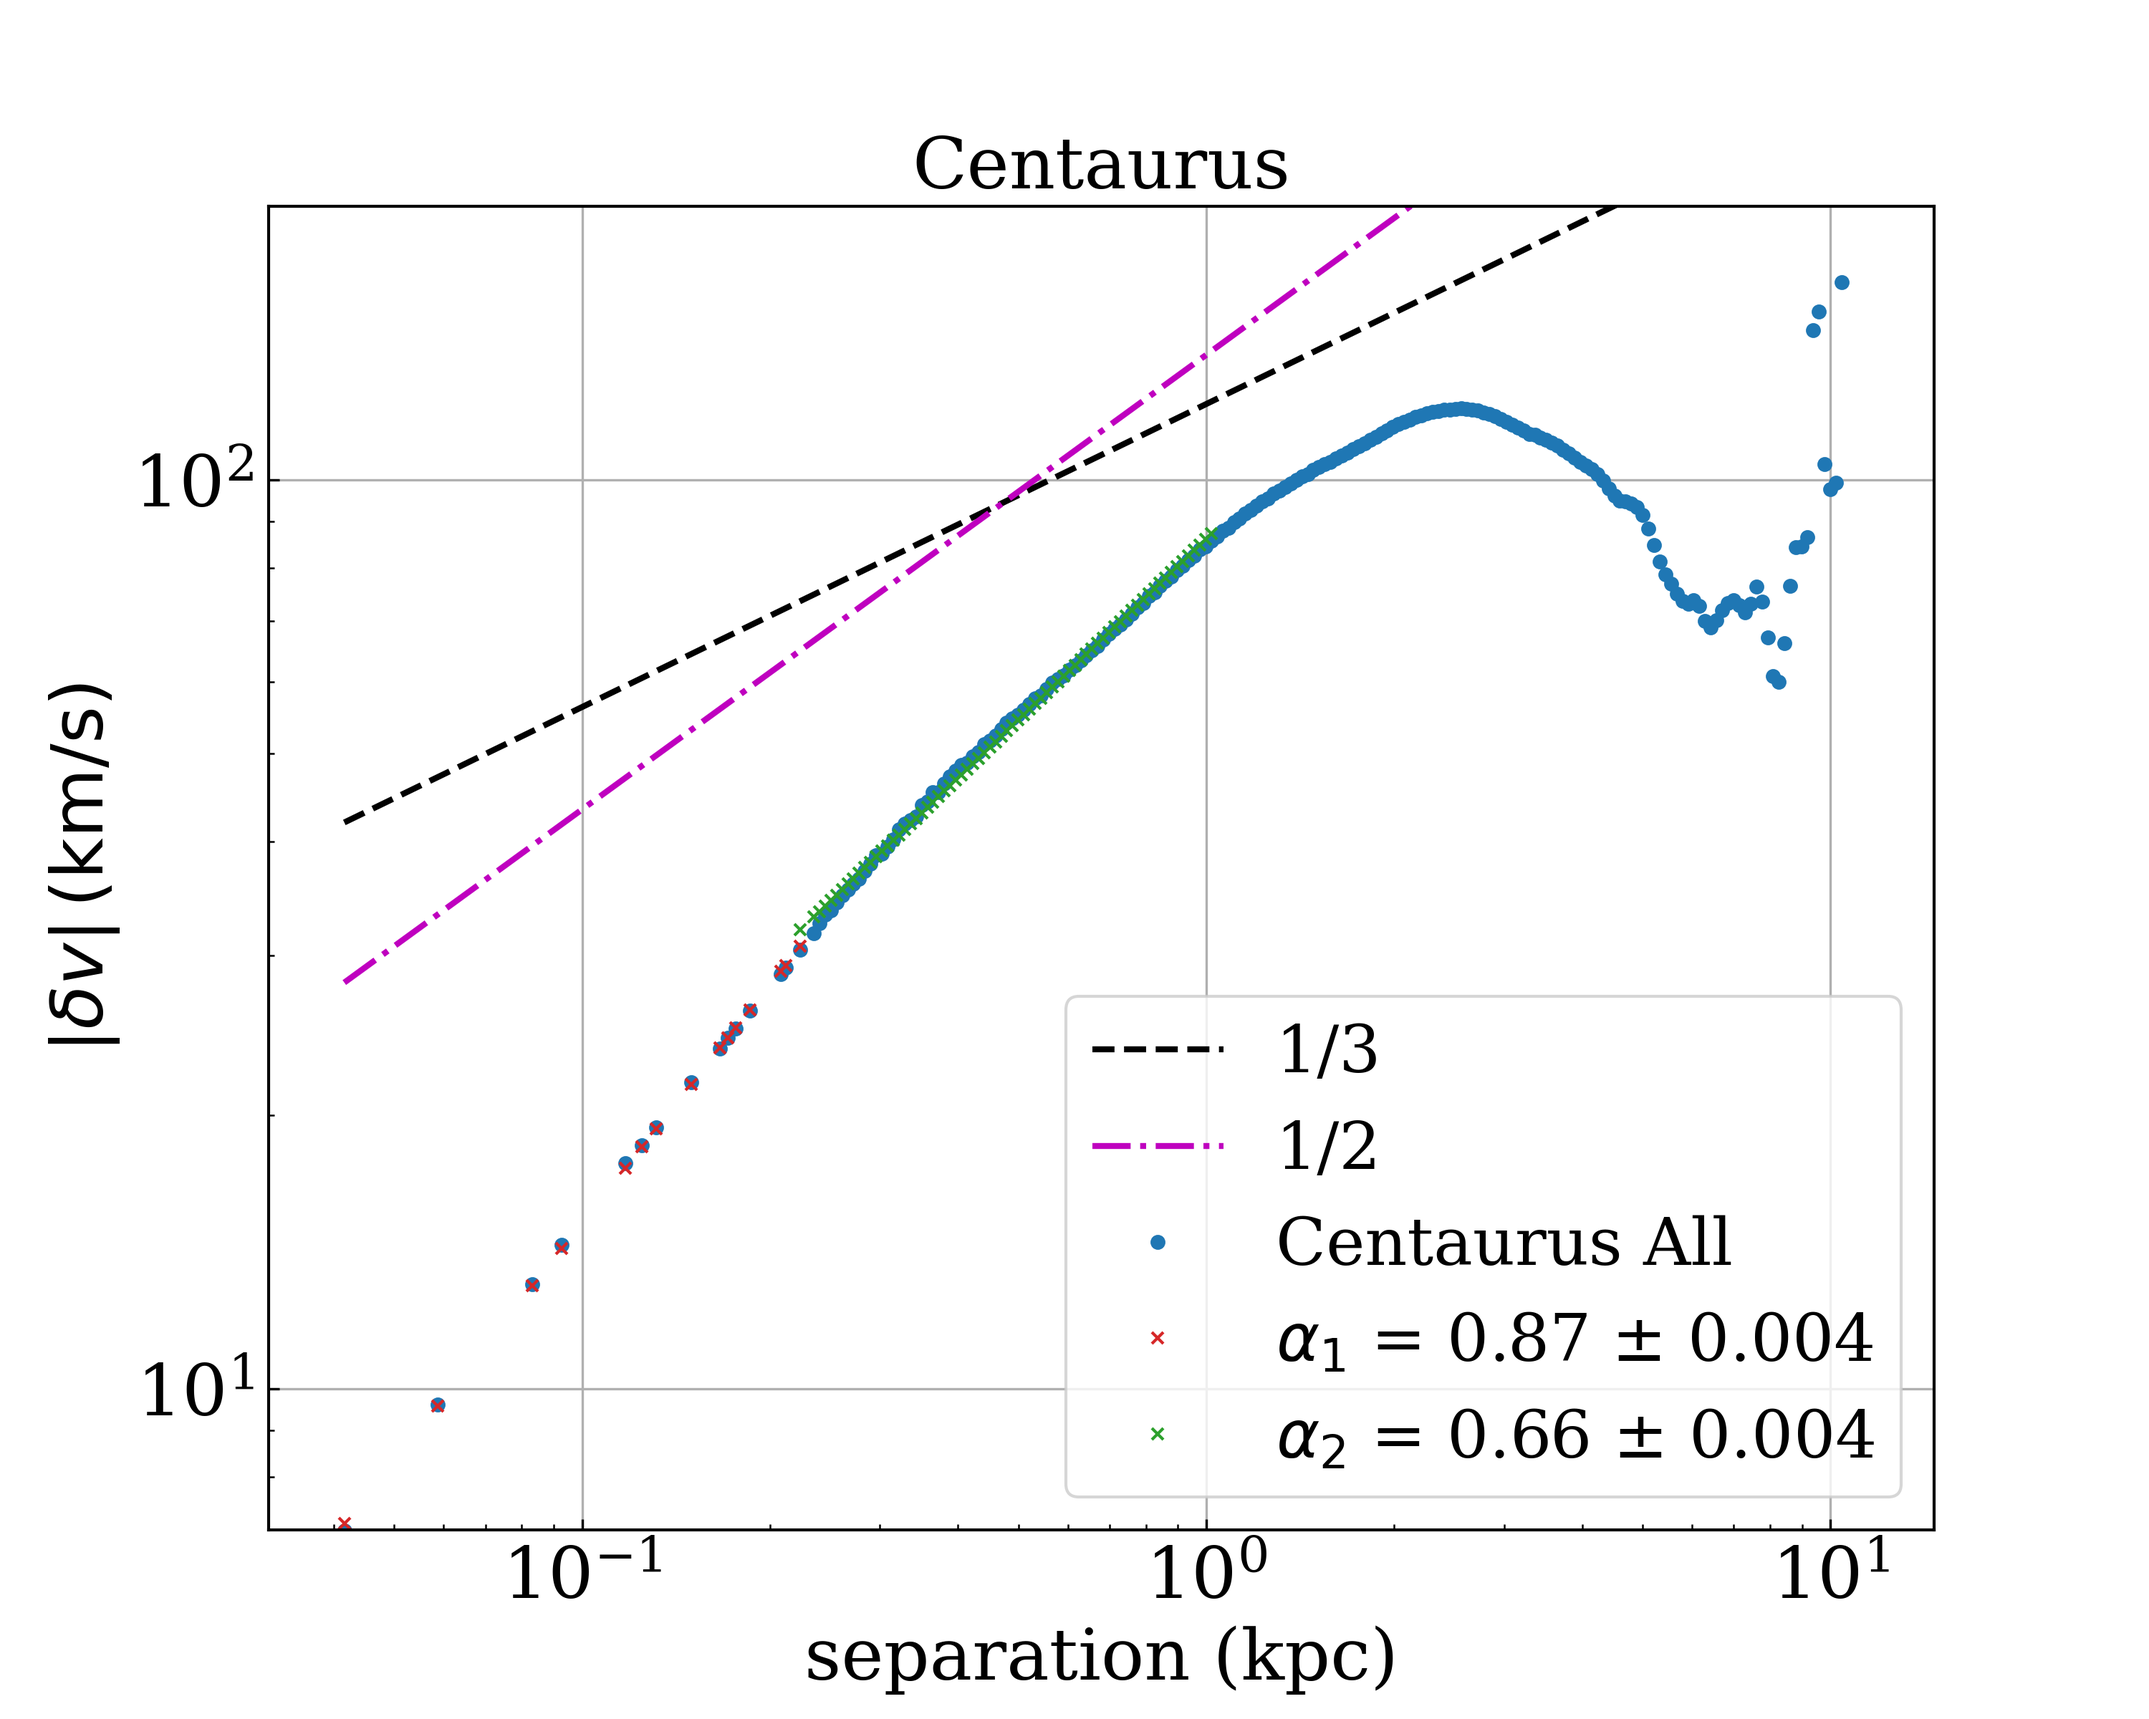
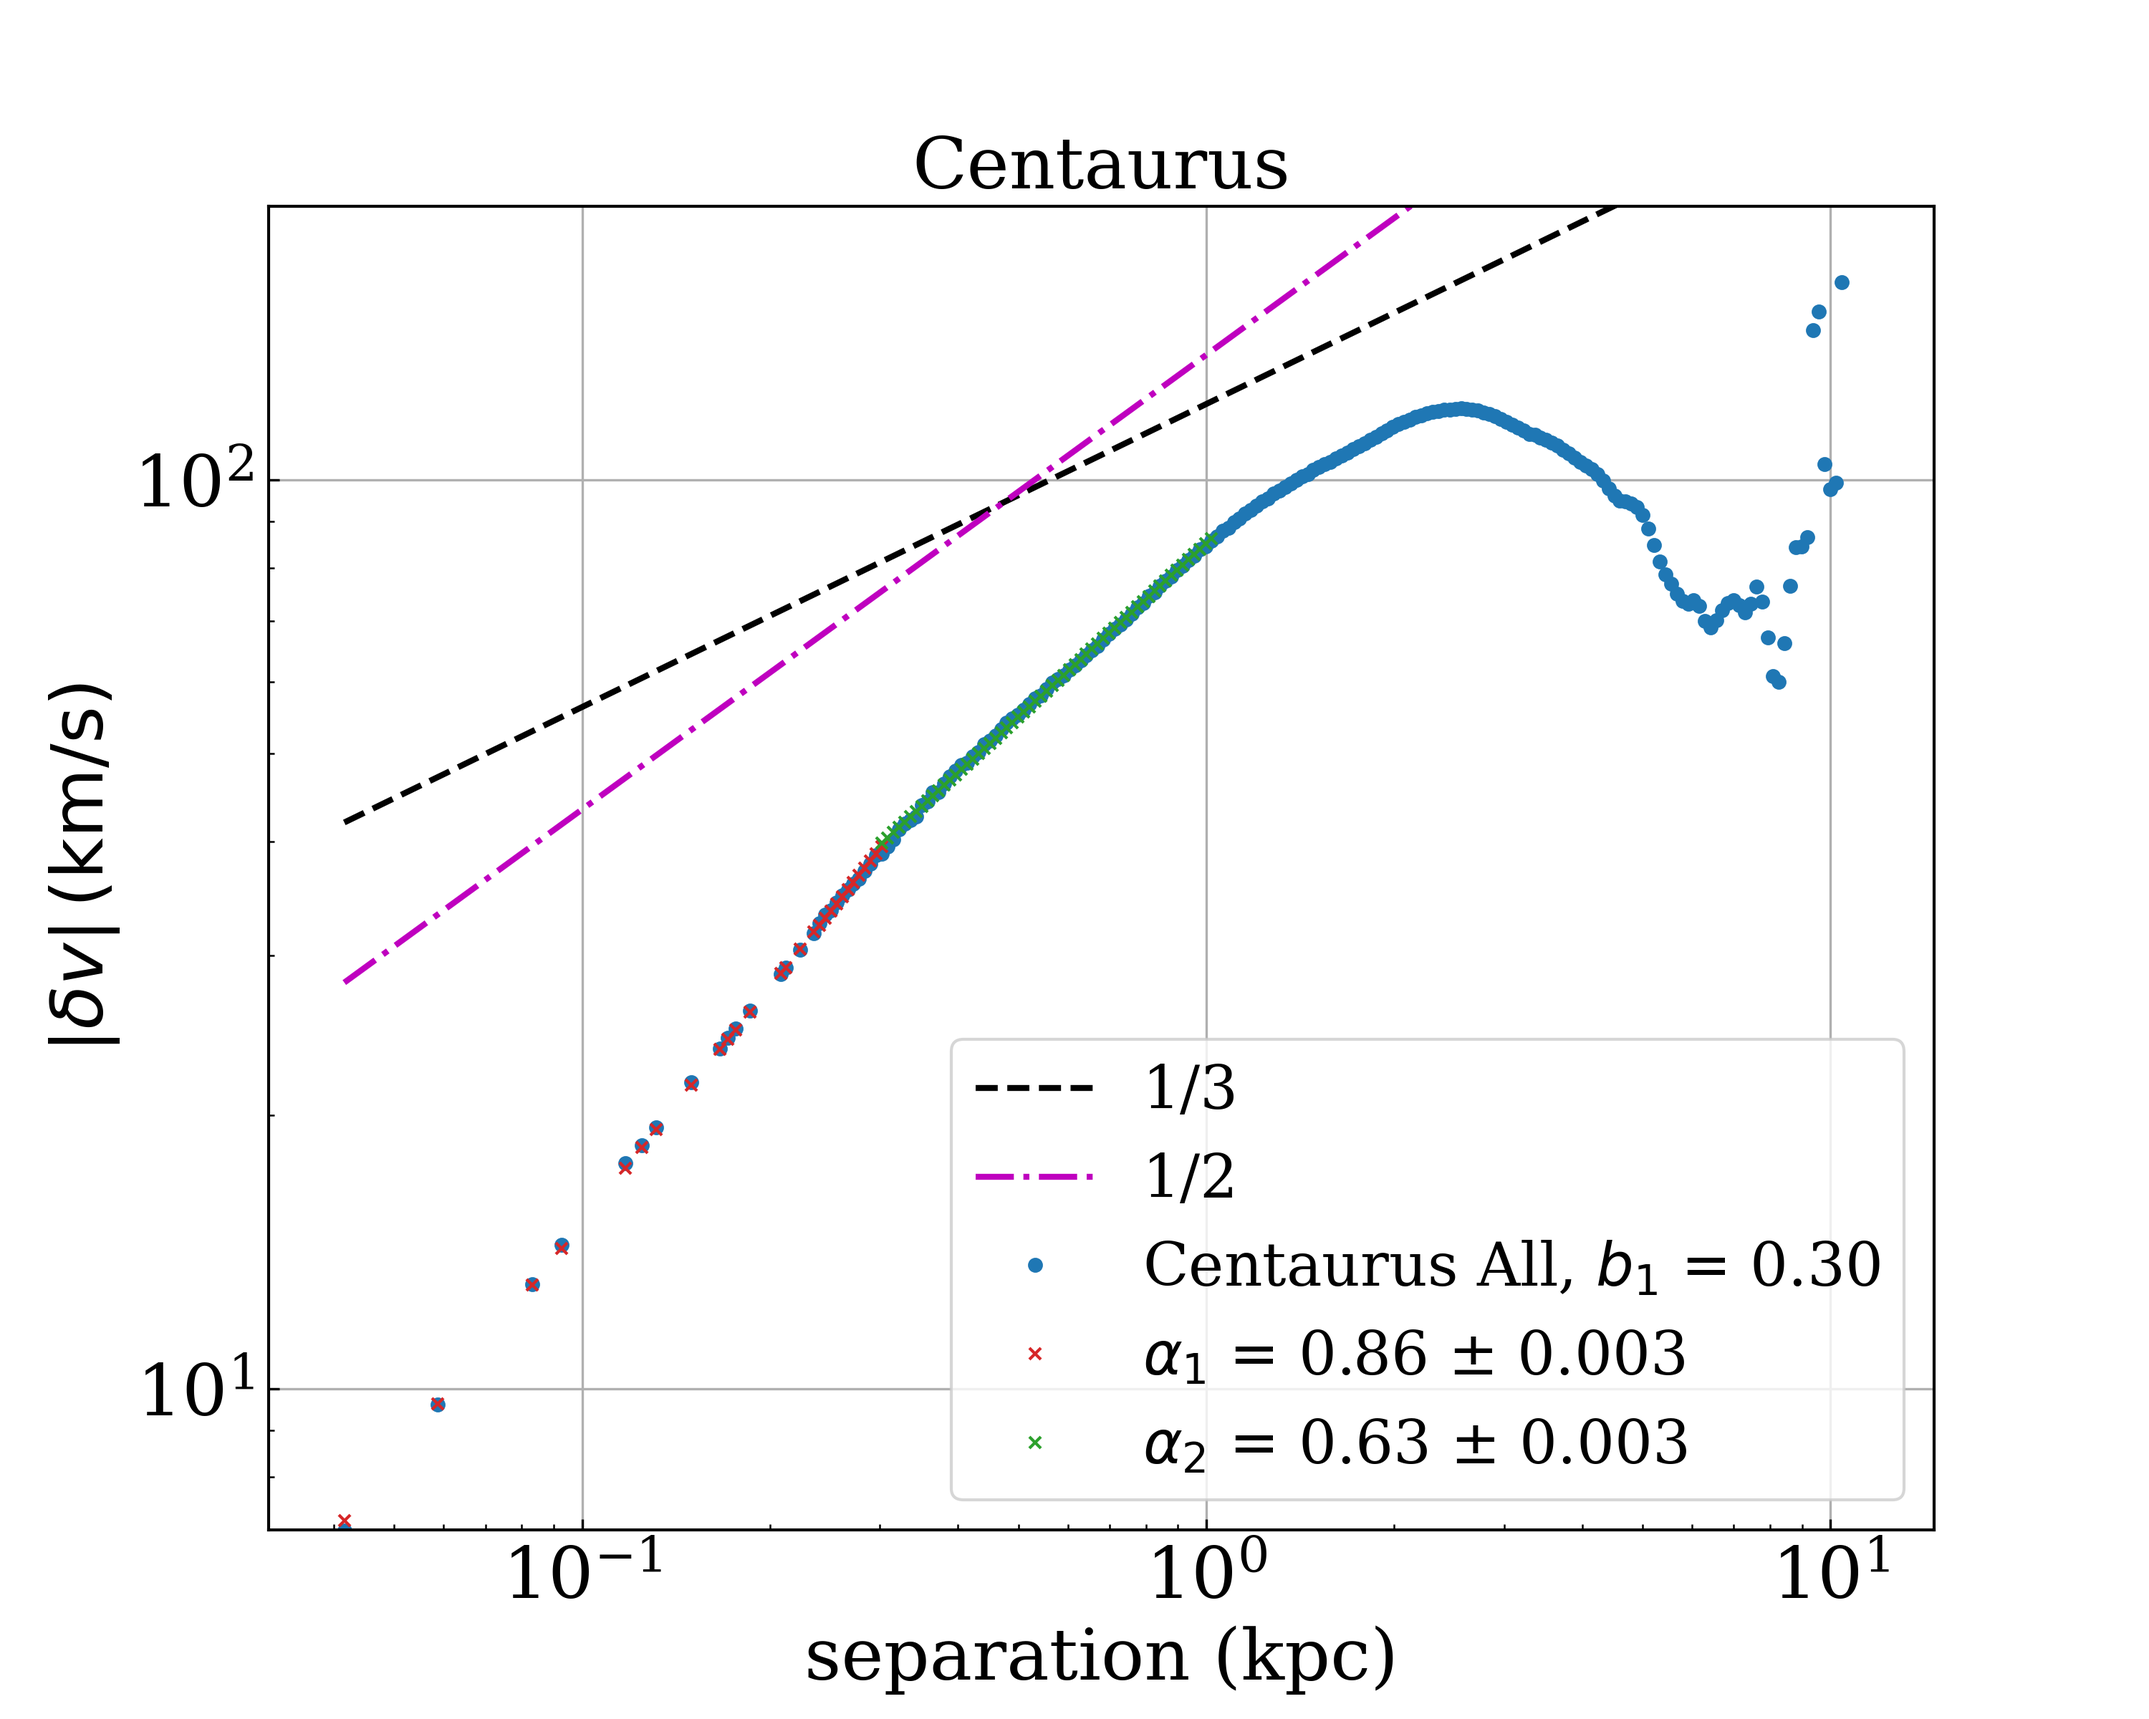
vsf fits improved

diff --git a/datamap_plotter.py b/datamap_plotter.py
@@ -196,7 +196,7 @@ def bplplotter(telescope,gname,vsfyl,vsfyu,one_third,half,pars1,stdevs1,pars2,st
     plt.figure(figsize=(10, 8))
     plt.loglog(dist_array_kpc, y_expect, "k--", label="1/3")
     plt.loglog(dist_array_kpc, y_expect2, "m-.", label="1/2")
-    plt.loglog(dist_array_kpc, v_diff_mean_smooth, marker="o",linestyle="None", markersize=4, color="C0",label=gname+' All')
+    plt.loglog(dist_array_kpc, v_diff_mean_smooth, marker="o",linestyle="None", markersize=4, color="C0",label=gname+r' All, $b_1$ = %.2f'%b1)
 
     for i in range(len(dist_array_kpc)):
         if dist_array_kpc[i]>b1:
@@ -211,7 +211,7 @@ def bplplotter(telescope,gname,vsfyl,vsfyu,one_third,half,pars1,stdevs1,pars2,st
         plt.loglog(distspec, 10**(pars2[0]+pars2[1]*np.log10(distspec)), 'x', color='C2',markersize=4, label=r'$\alpha_2$ = %.2f $\pm$ %.3f'%(pars2[1],stdevs2[1]))
     plt.xlabel("separation (kpc)")
     plt.ylabel(r"$|\delta v|\, \rm (km/s)$")
-    plt.legend(loc="lower right", prop={'size': 22})
+    plt.legend(loc="lower right", prop={'size': 20})
     plt.ylim(vsfyl, vsfyu)
     plt.grid()
     plt.tick_params(which='both',direction='in')

diff --git a/main.py b/main.py
@@ -91,7 +91,8 @@ if telescope=='MUSE':
         # alldata['vsfyl'], alldata['vsfyu'], alldata['vsfbin'] = vsfyl, vsfyu, vsfbin
         # clean.calc_vsf(alldata)
         plotter.vsf_plotter(gname, telescope, vsfyl, vsfyu, one_third, half)
-        b1, b2 = 2.5, 5        
+        #b1, b2 = [1.5,0.3,1,0.5,2.2,2,2.5,3], [10,1,4,3,4,5.5,10,12]
+        b1, b2 = 2.5, 5    
         pars1, stdevs1, pars2, stdevs2 = mask.brokenpowerlaw(telescope,gname,b1,b2)
         plotter.bplplotter(telescope,gname,vsfyl,vsfyu,one_third,half,pars1,stdevs1,pars2,stdevs2,b1,b2)
     if pltmap=='flux':
